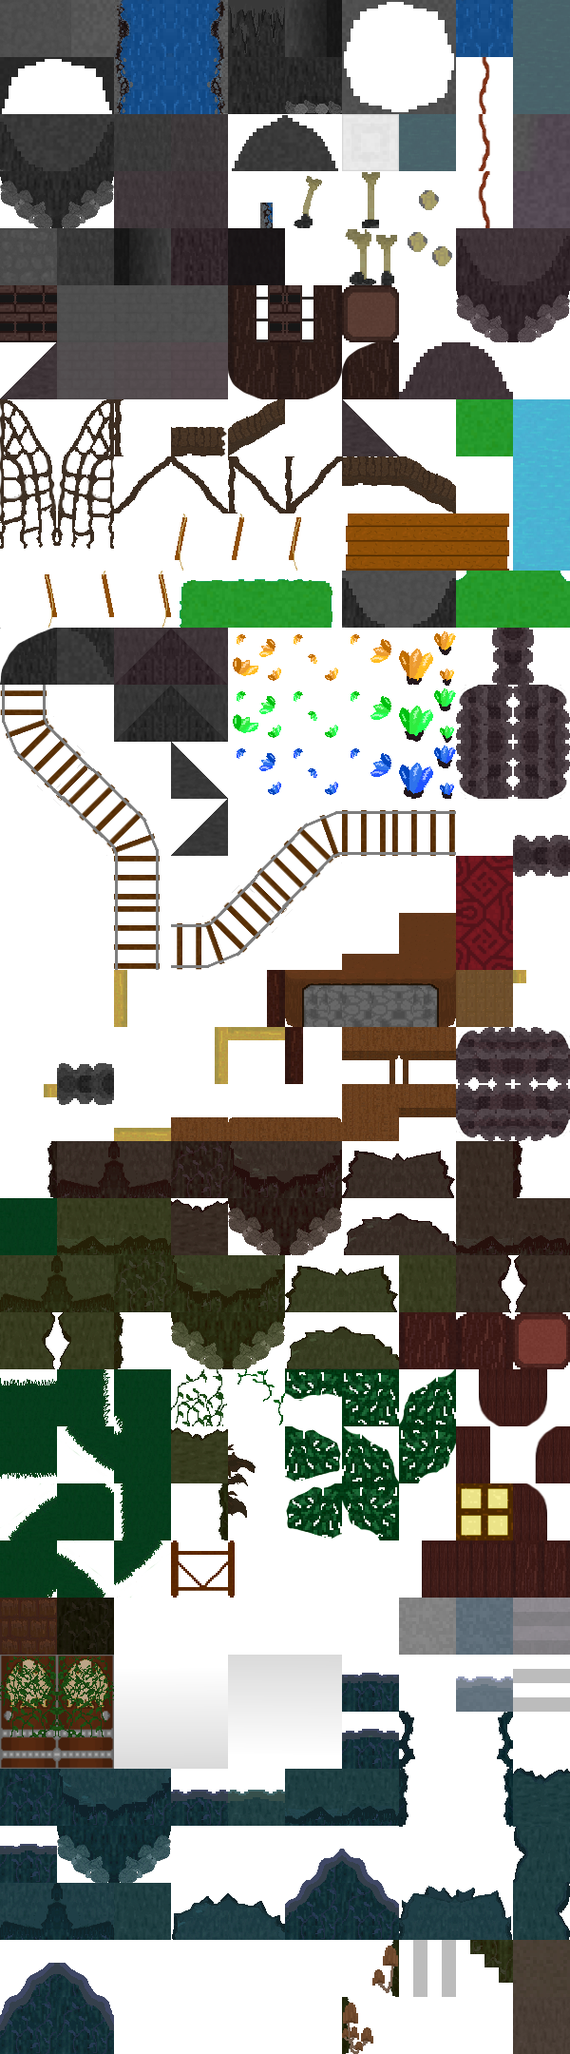
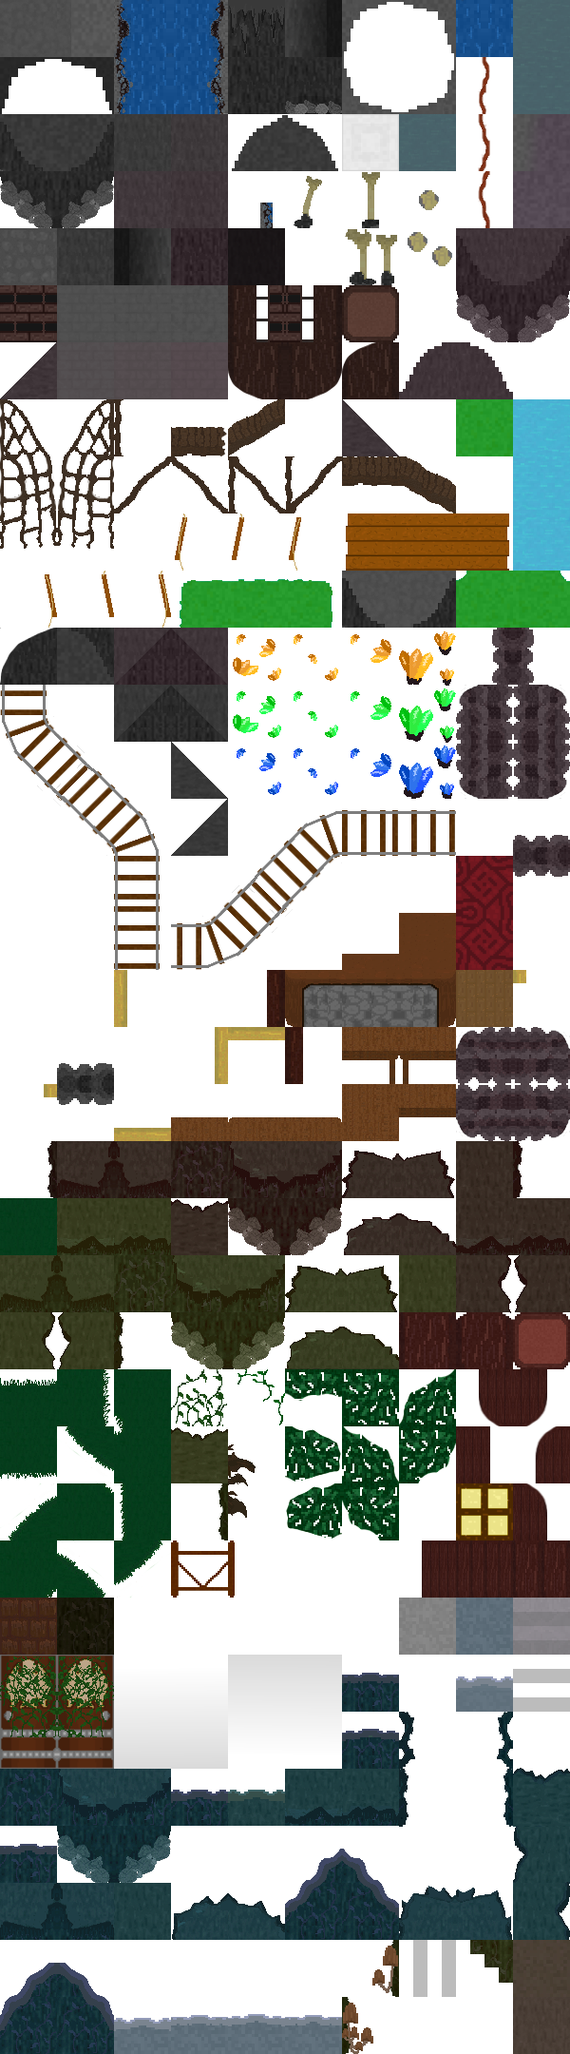
Frog Queen base updates + added the humidifiers!
Added the humidifiers for the frog queen base and updated the layout slightly.

Changed region(s): [[0.18, 0.9616, 0.6, 1.0]]

diff --git a/gamedata/areadata.js b/gamedata/areadata.js
@@ -14439,6 +14439,12 @@ crop: {
 				animateTime: 180,
 			},
 
+			{
+			// shoreline
+			tiles: [353, 354, 355, 356],
+			animateTime: 180,
+		},
+
 
 			{
 			tiles: [326, 341],
@@ -14463,17 +14469,18 @@ crop: {
 
 
 
+
 		],
 
 			layers: [
-				[209,209,209,209,209,209,209,350,350,204,209,209,209,209,209,209,209,209,209,209,209,209,209,209,209,209,209,209,209,209,209,209,209,209,209,209,209,209,209,204,204,204,204,204,204,204,204,204,205,209,209,209,209,209,209,209,209,209,
-209,209,209,209,209,204,204,350,350,204,204,209,209,209,209,209,209,209,209,209,209,209,209,209,209,209,209,204,204,204,204,209,209,209,209,209,209,209,204,204,204,204,204,204,204,204,204,204,204,204,205,209,209,209,209,209,209,209,
-209,209,228,228,209,209,204,350,350,204,204,204,209,209,209,209,209,209,209,209,209,209,209,209,209,209,204,204,204,204,204,204,219,219,219,220,209,204,204,204,228,228,228,228,228,228,228,204,213,204,204,204,203,209,209,209,209,209,
-209,209,209,228,209,204,204,350,350,204,204,204,204,204,209,209,209,209,209,209,209,209,209,209,209,204,204,204,204,204,204,204,204,204,204,204,204,204,228,228,228,228,228,228,228,228,223,223,223,204,204,204,204,204,204,204,209,209,
-209,209,209,228,204,204,204,350,350,350,204,204,204,228,209,209,209,209,209,209,209,209,209,209,204,204,204,204,204,204,204,204,204,204,204,204,222,228,228,228,228,228,228,228,223,223,223,223,223,223,228,204,204,204,204,203,209,209,
-209,209,209,228,228,204,350,350,350,350,350,204,228,228,209,209,209,209,209,209,209,209,209,209,204,204,204,350,350,350,350,350,204,204,222,228,223,224,213,228,228,228,228,228,223,223,228,223,223,228,228,228,228,204,204,204,204,209,
-209,209,209,228,228,350,350,350,350,350,350,223,204,209,209,209,209,209,209,209,209,209,209,209,204,204,350,350,350,350,350,350,350,204,223,223,223,223,223,224,228,228,228,228,223,228,225,223,223,223,223,223,223,222,204,204,203,209,
-209,209,209,206,228,350,350,350,350,350,350,223,209,209,209,209,209,209,209,209,209,209,209,209,204,204,350,350,350,350,350,350,350,350,350,224,228,223,223,223,223,223,223,223,223,228,223,223,223,223,223,223,223,223,223,204,204,204,
+				[209,209,209,209,209,209,209,204,204,204,209,209,209,209,209,209,209,209,209,209,209,209,209,209,209,209,209,209,209,209,209,209,209,209,209,209,209,209,209,204,204,204,204,204,204,204,204,204,205,209,209,209,209,209,209,209,209,209,
+209,209,209,209,209,204,204,204,204,204,204,209,209,209,209,209,209,209,209,209,209,209,209,209,209,209,209,204,204,204,204,209,209,209,209,209,209,209,204,204,204,204,204,204,204,204,204,204,204,204,205,209,209,209,209,209,209,209,
+209,209,228,228,209,209,204,204,204,204,204,204,209,209,209,209,209,209,209,209,209,209,209,209,209,209,204,204,204,204,204,204,219,219,219,220,209,204,204,204,228,228,228,228,228,228,228,204,213,204,204,204,203,209,209,209,209,209,
+209,209,209,228,209,204,228,204,204,204,228,204,204,204,209,209,209,209,209,209,209,209,209,209,209,204,204,204,204,204,204,204,204,204,204,204,204,204,228,228,228,228,228,228,228,228,223,223,223,204,204,204,204,204,204,204,209,209,
+209,209,209,204,204,228,204,223,223,223,204,228,204,204,209,209,209,209,209,209,209,209,209,209,204,204,204,204,204,204,204,204,204,204,204,204,222,228,228,228,228,228,228,228,223,223,223,223,223,223,228,204,204,204,204,203,209,209,
+209,209,209,228,228,204,223,223,223,223,223,204,228,204,209,209,209,209,209,209,209,209,209,209,204,204,204,350,350,350,350,350,204,204,222,228,223,224,213,228,228,228,228,228,223,223,228,223,223,228,228,228,228,204,204,204,204,209,
+209,209,209,228,228,223,350,350,350,350,350,223,204,209,209,209,209,209,209,209,209,209,209,209,204,204,350,350,350,350,350,350,350,204,223,223,223,223,223,224,228,228,228,228,223,228,225,223,223,223,223,223,223,222,204,204,203,209,
+209,209,209,206,228,223,350,350,350,350,350,223,209,209,209,209,209,209,209,209,209,209,209,209,204,204,350,350,350,350,350,350,350,350,350,224,228,223,223,223,223,223,223,223,223,228,223,223,223,223,223,223,223,223,223,204,204,204,
 209,209,209,204,228,350,350,350,350,350,350,209,209,209,209,209,209,209,209,209,209,209,209,209,209,204,350,350,350,350,350,350,350,350,350,223,223,224,228,223,223,223,223,223,228,225,223,223,0,228,228,228,223,223,224,204,204,203,
 209,209,202,204,228,350,350,350,350,350,350,209,204,204,204,209,209,209,209,209,209,209,209,209,209,209,209,350,350,350,350,350,350,350,350,350,223,223,223,222,228,228,228,228,221,223,223,223,223,0,0,223,223,223,223,223,204,204,
 209,209,204,228,228,350,350,350,350,350,228,204,209,204,204,204,209,209,209,209,209,209,209,209,209,209,209,209,350,350,350,350,350,350,350,350,350,350,223,223,223,223,223,223,223,223,360,360,360,223,223,223,360,360,223,223,204,204,
@@ -14489,18 +14496,18 @@ crop: {
 223,350,350,350,350,350,350,350,350,350,350,350,350,350,350,350,223,223,223,223,223,213,212,228,228,228,223,223,223,350,350,350,350,350,350,350,350,350,228,228,228,228,228,228,228,228,360,360,360,360,360,360,228,228,228,228,223,223,
 350,350,350,350,350,350,350,350,350,350,350,350,350,350,350,350,350,350,350,350,350,223,223,223,223,223,223,350,350,350,350,350,350,350,350,350,350,228,228,228,228,228,228,228,228,228,228,360,360,360,360,360,228,228,228,228,228,228,
 350,350,350,350,350,350,350,350,350,350,350,350,350,350,350,350,350,350,350,350,350,350,350,350,223,350,350,350,350,350,350,350,350,350,350,350,350,228,228,228,228,228,228,228,228,228,228,360,360,360,360,360,228,228,223,228,228,228,
-350,350,350,350,350,350,350,350,350,350,350,350,350,350,350,350,350,350,350,350,350,350,350,350,350,350,350,350,350,350,350,350,350,350,350,350,228,228,209,209,209,209,209,209,209,209,209,223,360,360,360,360,228,228,228,223,223,228,
-350,350,350,350,350,350,350,350,350,350,350,350,350,350,350,350,350,350,350,350,350,350,350,350,350,350,350,350,350,350,350,350,350,350,350,228,209,209,209,209,209,209,209,209,209,209,209,209,360,360,360,223,205,209,228,228,223,223,
-350,209,209,209,209,350,350,350,350,350,350,350,350,350,350,350,350,350,350,350,350,350,350,350,350,350,350,350,350,350,350,350,350,209,209,209,209,209,209,209,209,209,209,209,209,209,209,209,360,360,360,223,204,288,209,228,228,228,
-209,209,209,209,209,209,350,350,350,350,350,350,350,350,350,350,350,350,350,350,350,350,350,350,350,350,350,350,350,350,350,350,209,209,209,209,209,209,209,209,209,209,209,209,209,209,209,209,360,360,360,360,204,204,209,209,228,228,
-209,209,209,209,209,209,209,209,209,350,350,350,350,350,350,350,350,350,350,350,350,350,350,350,350,350,350,350,209,209,209,209,209,209,209,209,209,209,209,209,209,209,209,209,209,209,209,209,360,360,360,360,204,204,0,209,209,228,
-209,209,209,209,209,209,209,209,209,209,209,209,209,209,350,350,350,350,350,350,350,350,350,350,350,350,228,209,209,209,209,209,209,209,209,209,209,209,209,209,209,209,209,209,209,209,209,209,204,360,360,360,360,204,204,204,209,209,
-209,209,209,209,209,209,209,209,209,209,209,209,209,209,209,228,228,228,350,350,350,350,350,350,350,228,209,209,209,209,209,209,209,209,209,209,209,209,209,209,209,209,209,209,209,209,209,209,204,360,360,360,360,360,204,204,209,209,
-209,209,209,209,209,209,209,209,209,209,209,209,209,209,209,209,228,228,228,350,350,350,350,350,350,228,204,204,204,209,209,209,209,209,209,204,204,204,209,209,209,209,209,209,209,209,209,209,204,360,360,360,360,360,204,204,209,209,
-209,209,209,209,209,209,209,209,209,209,209,209,209,209,209,209,209,228,228,228,350,350,350,350,228,228,204,204,204,204,204,204,204,204,204,204,204,204,204,209,209,209,209,209,209,209,209,209,360,360,360,360,360,360,360,209,209,209,
-209,209,209,209,209,209,209,209,209,209,209,209,209,209,209,209,209,228,228,228,350,350,350,350,228,228,228,204,204,204,204,204,204,204,204,204,204,204,204,204,209,209,209,209,209,209,209,209,209,360,360,360,360,360,209,209,209,209,
-209,209,209,209,209,209,209,209,209,209,209,209,209,209,209,209,209,209,228,228,350,350,350,350,228,228,228,228,228,228,204,204,204,204,228,228,228,228,228,204,209,209,209,209,209,209,209,209,209,209,360,360,360,209,209,209,209,209,
-209,209,209,209,209,209,209,209,209,209,209,209,209,209,209,209,209,206,228,228,223,350,350,223,228,228,228,228,228,228,228,228,228,228,228,228,228,228,228,205,209,209,209,209,209,209,209,209,209,209,209,209,209,209,209,209,209,209,
+350,350,350,350,350,350,350,350,350,350,350,350,350,350,350,350,350,350,350,350,350,350,350,350,350,350,350,350,350,350,350,350,350,350,350,350,228,228,209,209,209,209,209,209,228,228,228,360,350,360,360,360,228,228,228,223,223,228,
+350,350,350,350,350,350,350,350,350,350,350,350,350,350,350,350,350,350,350,350,350,350,350,350,350,350,350,350,350,350,350,350,350,350,350,228,209,209,209,209,209,209,209,209,228,228,228,360,350,360,360,223,205,209,228,228,223,223,
+350,209,209,209,209,350,350,350,350,350,350,350,350,350,350,350,350,350,350,350,350,350,350,350,350,350,350,350,350,350,350,350,350,209,209,209,209,209,209,209,209,209,209,209,209,228,228,360,350,360,360,223,204,288,209,228,228,228,
+209,209,209,209,209,209,350,350,350,350,350,350,350,350,350,350,350,350,350,350,350,350,350,350,350,350,350,350,350,350,350,350,209,209,209,209,209,209,209,209,209,209,209,209,209,228,228,360,350,360,360,360,204,204,209,209,228,228,
+209,209,209,209,209,209,209,209,209,350,350,350,350,350,350,350,350,350,350,350,350,350,350,350,350,350,350,350,209,209,209,209,209,209,209,209,209,209,209,209,209,209,209,209,209,228,228,360,350,350,360,360,204,204,0,209,209,228,
+209,209,209,209,209,209,209,209,209,209,209,209,209,209,350,350,350,350,350,350,350,350,350,350,350,350,228,209,209,209,209,209,209,209,209,209,209,209,209,209,209,209,209,209,209,228,228,228,360,350,360,360,360,204,204,204,209,209,
+209,209,209,209,209,209,209,209,209,209,209,209,209,209,209,228,228,228,350,350,350,350,350,350,350,228,209,209,209,209,209,209,209,209,209,209,209,209,209,209,209,209,209,209,209,228,228,228,360,350,360,360,360,360,204,204,209,209,
+209,209,209,209,209,209,209,209,209,209,209,209,209,209,209,209,228,228,228,350,350,350,350,350,350,228,204,204,204,209,209,209,209,209,209,204,204,204,209,209,209,209,209,209,209,228,228,228,360,360,360,360,360,360,204,204,209,209,
+209,209,209,209,209,209,209,209,209,209,209,209,209,209,209,209,209,228,228,228,350,350,350,350,228,228,204,204,204,204,204,204,204,204,204,204,204,204,204,209,209,209,209,209,209,209,228,228,228,360,360,360,360,360,228,209,209,209,
+209,209,209,209,209,209,209,209,209,209,209,209,209,209,209,209,209,228,228,228,350,350,350,350,228,228,228,204,204,204,204,204,204,204,204,204,204,204,204,204,209,209,209,209,209,209,228,228,228,228,360,360,360,228,228,209,209,209,
+209,209,209,209,209,209,209,209,209,209,209,209,209,209,209,209,209,209,228,228,350,350,350,350,228,228,228,228,228,228,204,204,204,204,228,228,228,228,228,204,209,209,209,209,209,209,209,228,228,228,228,228,228,228,228,209,209,209,
+209,209,209,209,209,209,209,209,209,209,209,209,209,209,209,209,209,206,228,228,223,350,350,223,228,228,228,228,228,228,228,228,228,228,228,228,228,228,228,205,209,209,209,209,209,209,209,209,209,228,228,228,228,228,209,209,209,209,
 209,209,209,209,209,209,209,209,209,209,209,209,209,209,209,209,206,204,228,228,223,350,350,223,223,228,228,228,228,228,228,228,228,228,228,228,228,228,228,204,204,205,209,209,209,209,209,209,209,209,209,209,209,209,209,209,209,209,
 209,209,209,209,209,209,209,209,209,209,209,209,209,209,209,209,204,204,228,228,223,289,289,223,223,223,228,228,228,228,228,228,228,228,228,228,228,228,228,204,204,204,205,209,209,209,209,209,209,209,209,209,209,209,209,209,209,209,
 209,209,209,209,209,209,209,209,209,209,209,209,209,209,209,206,204,204,228,228,223,289,289,289,223,223,223,228,228,228,228,228,223,223,223,223,223,228,228,204,204,204,204,204,205,209,209,209,209,209,209,209,209,209,209,209,209,209,
@@ -14571,6 +14578,7 @@ crop: {
 
 
 
+
 ],
 
 
@@ -14579,13 +14587,13 @@ crop: {
 
 
 
-	[0,0,0,0,0,0,220,0,201,0,220,0,0,0,0,0,0,0,0,0,0,0,0,0,0,0,0,0,220,220,0,0,0,0,0,0,0,0,206,0,0,0,0,0,0,0,0,0,0,219,0,0,0,0,0,0,0,0,
-0,0,0,0,0,229,0,0,201,0,0,205,0,0,0,0,0,0,0,0,0,0,0,0,0,0,0,0,0,0,0,203,0,0,0,0,0,206,0,0,236,254,254,254,254,254,254,254,237,0,0,0,0,0,0,0,0,0,
-0,0,209,209,209,202,0,0,201,0,0,0,203,0,0,0,0,0,0,0,0,0,0,0,0,0,202,0,0,0,0,210,205,0,0,0,202,0,236,254,0,0,0,0,0,0,213,213,225,0,0,0,0,219,219,0,0,0,
-0,0,0,209,206,0,0,0,201,0,0,0,0,230,0,0,0,0,0,0,0,0,0,0,0,206,0,0,0,0,0,210,0,0,0,0,236,254,0,0,0,0,0,0,0,225,223,223,223,226,237,0,0,0,0,230,0,0,
-0,0,209,229,254,227,0,0,0,215,0,0,226,230,0,0,0,0,0,0,0,0,0,0,229,0,0,0,0,47,0,210,0,0,226,237,0,0,0,0,0,0,0,0,231,223,236,237,0,232,0,254,237,0,0,0,0,0,
-0,0,0,229,0,231,216,0,0,0,215,236,228,230,0,0,0,0,0,0,0,0,0,0,229,0,0,216,0,0,0,215,0,0,0,0,0,0,0,0,0,0,0,0,225,236,0,221,0,224,212,213,212,254,237,0,230,0,
-0,0,0,229,0,231,0,0,48,0,0,232,228,0,0,0,0,0,0,0,0,0,0,0,229,210,216,48,38,0,0,0,215,0,0,232,237,223,0,0,213,213,213,225,223,47,0,0,0,0,0,245,0,0,231,0,0,0,
+	[0,0,0,0,0,0,220,0,0,0,220,0,0,0,0,0,0,0,0,0,0,0,0,0,0,0,0,0,220,220,0,0,0,0,0,0,0,0,206,0,0,0,0,0,0,0,0,0,0,219,0,0,0,0,0,0,0,0,
+0,0,0,0,0,229,0,0,0,0,0,205,0,0,0,0,0,0,0,0,0,0,0,0,0,0,0,0,0,0,0,203,0,0,0,0,0,206,0,0,236,254,254,254,254,254,254,254,237,0,0,0,0,0,0,0,0,0,
+0,0,209,209,209,202,236,254,254,254,227,0,203,0,0,0,0,0,0,0,0,0,0,0,0,0,202,0,0,0,0,210,205,0,0,0,202,0,236,254,0,0,0,0,0,0,213,213,225,0,0,0,0,219,219,0,0,0,
+0,0,0,209,206,236,0,212,213,213,0,227,0,230,0,0,0,0,0,0,0,0,0,0,0,206,0,0,0,0,0,210,0,0,0,0,236,254,0,0,0,0,0,0,0,225,223,223,223,226,237,0,0,0,0,230,0,0,
+0,0,209,229,236,0,225,0,0,0,222,0,237,230,0,0,0,0,0,0,0,0,0,0,229,0,0,0,0,47,0,210,0,0,226,237,0,0,0,0,0,0,0,0,231,223,236,237,0,232,0,254,237,0,0,0,0,0,
+0,0,0,229,0,231,0,0,0,0,0,232,0,230,0,0,0,0,0,0,0,0,0,0,229,0,0,216,0,0,0,215,0,0,0,0,0,0,0,0,0,0,0,0,225,236,0,221,0,224,212,213,212,254,237,0,230,0,
+0,0,0,229,0,231,235,0,48,0,234,232,228,0,0,0,0,0,0,0,0,0,0,0,229,210,216,48,38,0,0,0,215,0,0,232,237,223,0,0,213,213,213,225,223,47,0,0,0,0,0,245,0,0,231,0,0,0,
 0,0,0,0,0,231,0,38,0,0,0,232,0,207,218,0,0,0,0,0,0,0,0,0,229,210,210,0,0,0,0,0,0,0,234,0,212,254,237,223,223,223,223,223,236,0,0,0,236,254,254,237,0,0,232,237,0,230,
 0,0,0,0,0,231,0,0,0,0,264,0,0,205,0,208,0,0,0,0,0,0,0,0,0,214,210,0,0,0,0,0,0,0,0,0,0,0,213,254,254,254,254,254,0,0,0,264,222,0,0,0,0,0,0,231,0,0,
 0,0,0,0,0,231,47,37,0,0,232,203,229,0,205,0,208,0,0,0,0,0,0,0,0,0,0,0,0,0,0,0,0,48,0,234,0,0,0,0,213,212,213,213,0,0,0,264,0,224,213,225,0,245,0,232,237,0,
@@ -14601,20 +14609,20 @@ crop: {
 0,235,0,0,0,0,0,0,0,0,0,0,0,234,0,0,0,245,0,0,226,227,236,254,237,236,254,0,0,221,235,0,0,0,0,0,0,0,226,254,254,254,348,348,254,237,0,0,0,0,0,0,201,0,232,237,0,0,
 0,0,0,0,38,0,0,0,0,0,0,0,0,0,0,234,0,0,0,0,224,0,0,0,0,36,213,221,0,235,0,0,0,0,0,0,0,236,0,0,0,0,0,0,0,0,237,0,0,0,0,226,0,0,222,0,254,254,
 235,0,0,0,0,0,0,0,0,0,0,0,0,0,0,0,0,0,0,0,234,245,0,224,213,225,0,235,0,0,0,0,0,0,0,0,236,0,0,0,0,0,0,0,0,0,0,237,0,0,0,232,0,0,223,222,213,0,
-0,48,0,0,0,0,0,0,0,0,0,0,0,0,0,0,0,0,0,0,0,0,0,234,0,235,0,0,0,0,0,0,0,0,0,0,232,0,207,214,214,214,214,214,214,214,218,231,0,0,0,232,0,0,237,223,223,222,
-0,0,0,0,0,0,0,47,0,0,0,0,0,0,0,36,0,0,0,0,0,0,0,0,0,0,0,0,0,0,38,0,0,0,0,236,217,214,0,0,0,0,0,0,0,0,0,231,233,0,0,224,207,218,0,237,223,223,
-0,217,214,214,208,0,0,0,0,0,0,0,0,0,0,0,0,0,38,48,0,0,0,0,0,0,0,0,0,0,48,0,0,207,214,214,0,0,0,0,0,0,0,0,0,0,0,0,233,0,0,0,0,0,218,0,254,227,
-214,0,0,0,0,218,0,0,0,0,37,0,0,0,0,0,0,0,0,0,0,0,0,0,0,0,0,0,0,0,0,0,217,0,0,0,0,0,0,0,0,0,0,0,0,0,0,0,229,0,0,0,0,205,0,208,0,0,
-0,0,0,0,0,0,214,214,208,0,0,0,0,0,0,0,0,0,0,0,0,0,36,0,0,0,0,0,217,214,214,214,0,0,0,0,0,0,0,0,0,0,0,0,0,0,0,0,229,0,0,234,0,0,0,0,218,0,
-0,0,0,0,0,0,0,0,0,214,214,214,214,218,0,0,0,0,0,0,0,0,0,0,0,0,236,254,0,0,0,0,0,0,0,0,0,0,0,0,0,0,0,0,0,0,0,0,206,0,38,0,0,0,205,0,0,214,
-0,0,0,0,0,0,0,0,0,0,0,0,0,0,254,254,254,237,0,0,0,0,0,0,0,236,207,0,0,0,0,0,0,0,0,0,0,0,0,0,0,0,0,0,0,0,0,0,0,0,0,48,215,0,0,230,0,0,
-0,0,0,0,0,0,0,0,0,0,0,0,0,0,0,218,0,0,254,237,0,0,0,0,0,0,205,220,220,0,0,0,0,0,0,219,219,220,0,0,0,0,0,0,0,0,0,0,0,0,0,0,0,215,0,230,0,0,
-0,0,0,0,0,0,0,0,0,0,0,0,0,0,0,0,218,0,0,231,0,0,0,0,236,0,0,0,0,203,219,219,220,220,202,0,0,0,205,0,0,0,0,0,0,0,0,0,0,0,0,0,0,0,0,230,0,0,
-0,0,0,0,0,0,0,0,0,0,0,0,0,0,0,0,0,208,0,0,227,0,0,226,0,0,0,0,0,0,0,0,0,0,0,0,0,0,0,0,0,0,0,0,0,0,0,0,216,0,0,0,0,0,215,0,0,0,
-0,0,0,0,0,0,0,0,0,0,0,0,0,0,0,0,0,229,0,0,231,0,0,232,0,0,215,0,0,0,0,0,0,0,0,0,0,0,0,230,0,0,0,0,0,0,0,0,0,218,0,0,0,217,0,0,0,0,
-0,0,0,0,0,0,0,0,0,0,0,0,0,0,0,0,0,229,0,0,231,0,0,232,0,0,0,0,0,215,0,0,0,0,216,0,0,0,215,230,0,0,0,0,0,0,0,0,0,0,214,214,214,0,0,0,0,0,
-0,0,0,0,0,0,0,0,0,0,0,0,0,0,0,0,0,0,0,0,231,0,201,224,0,0,0,0,0,0,0,0,0,0,0,0,0,0,0,0,0,0,0,0,0,0,0,0,0,0,0,0,0,0,0,0,0,0,
-0,0,0,0,0,0,0,0,0,0,0,0,0,0,0,0,0,0,0,0,231,299,299,327,224,0,0,0,0,0,0,0,0,0,0,0,0,0,0,0,0,0,0,0,0,0,0,0,0,0,0,0,0,0,0,0,0,0,
+0,48,0,0,0,0,0,0,0,0,0,0,0,0,0,0,0,0,0,0,0,0,0,234,0,235,0,0,0,0,0,0,0,0,0,0,232,0,207,214,214,214,214,208,0,0,0,231,0,0,0,232,0,0,237,223,223,222,
+0,0,0,0,0,0,0,47,0,0,0,0,0,0,0,36,0,0,0,0,0,0,0,0,0,0,0,0,0,0,38,0,0,0,0,236,217,214,0,0,0,0,0,0,218,0,0,231,0,0,0,224,207,218,0,237,223,223,
+0,217,214,214,208,0,0,0,0,0,0,0,0,0,0,0,0,0,38,48,0,0,0,0,0,0,0,0,0,0,48,0,0,207,214,214,0,0,0,0,0,0,0,0,229,0,0,231,0,0,0,0,0,0,218,0,254,227,
+214,0,0,0,0,218,0,0,0,0,37,0,0,0,0,0,0,0,0,0,0,0,0,0,0,0,0,0,0,0,0,0,217,0,0,0,0,0,0,0,0,0,0,0,0,218,0,231,0,0,0,0,0,205,0,208,0,0,
+0,0,0,0,0,0,214,214,208,0,0,0,0,0,0,0,0,0,0,0,0,0,36,0,0,0,0,0,217,214,214,214,0,0,0,0,0,0,0,0,0,0,0,0,0,229,0,231,0,0,0,234,0,0,0,0,218,0,
+0,0,0,0,0,0,0,0,0,214,214,214,214,218,0,0,0,0,0,0,0,0,0,0,0,0,236,254,0,0,0,0,0,0,0,0,0,0,0,0,0,0,0,0,0,229,0,231,0,0,38,0,0,0,205,0,0,214,
+0,0,0,0,0,0,0,0,0,0,0,0,0,0,254,254,254,237,0,0,0,0,0,0,0,236,207,0,0,0,0,0,0,0,0,0,0,0,0,0,0,0,0,0,0,229,0,0,227,0,0,48,215,0,0,230,0,0,
+0,0,0,0,0,0,0,0,0,0,0,0,0,0,0,218,0,0,254,237,0,0,0,0,0,0,205,220,220,0,0,0,0,0,0,219,219,220,0,0,0,0,0,0,0,229,0,0,231,0,0,0,0,215,0,230,0,0,
+0,0,0,0,0,0,0,0,0,0,0,0,0,0,0,0,218,0,0,231,0,0,0,0,236,0,0,0,0,203,219,219,220,220,202,0,0,0,205,0,0,0,0,0,0,229,0,0,231,0,0,0,0,0,236,230,0,0,
+0,0,0,0,0,0,0,0,0,0,0,0,0,0,0,0,0,208,0,0,227,0,0,226,0,0,0,0,0,0,0,0,0,0,0,0,0,0,0,0,0,0,0,0,0,0,218,0,0,237,0,0,0,226,0,230,0,0,
+0,0,0,0,0,0,0,0,0,0,0,0,0,0,0,0,0,229,0,0,231,0,0,232,0,0,215,0,0,0,0,0,0,0,0,0,0,0,0,230,0,0,0,0,0,0,229,0,0,0,254,254,254,0,0,230,0,0,
+0,0,0,0,0,0,0,0,0,0,0,0,0,0,0,0,0,229,0,0,231,0,0,232,0,0,0,0,0,215,0,0,0,0,216,0,0,0,215,230,0,0,0,0,0,0,0,214,218,0,0,0,0,0,207,0,0,0,
+0,0,0,0,0,0,0,0,0,0,0,0,0,0,0,0,0,0,0,0,231,0,0,224,0,0,0,0,0,0,0,0,0,0,0,0,0,0,0,0,0,0,0,0,0,0,0,0,0,214,214,214,214,214,0,0,0,0,
+0,0,0,0,0,0,0,0,0,0,0,0,0,0,0,0,0,0,0,0,231,353,353,327,224,0,0,0,0,0,0,0,0,0,0,0,0,0,0,0,0,0,0,0,0,0,0,0,0,0,0,0,0,0,0,0,0,0,
 0,0,0,0,0,0,0,0,0,0,0,0,0,0,0,0,0,0,0,0,231,294,294,337,327,224,0,0,0,0,0,0,0,212,212,213,0,0,0,0,0,0,0,220,0,0,0,0,0,0,0,0,0,0,0,0,0,0,
 0,0,0,0,0,0,0,0,0,0,0,0,0,0,0,0,0,0,0,0,231,304,304,304,337,327,224,213,212,212,213,213,225,0,0,0,222,0,0,0,0,0,0,0,0,0,0,0,0,0,0,0,0,0,0,0,0,0,
 0,0,0,0,0,0,0,0,0,0,0,0,0,0,0,0,0,216,0,0,231,295,295,295,295,337,327,0,0,0,0,0,326,314,314,314,327,222,0,215,0,0,0,0,0,0,0,0,0,0,0,0,0,0,0,0,0,0,
@@ -14688,14 +14696,16 @@ crop: {
 
 
 
+
+
 	],
 
 	[0,0,0,0,0,0,0,210,0,201,0,0,0,0,0,0,0,0,0,0,0,0,0,0,0,0,0,0,0,0,219,0,0,0,0,0,0,0,0,210,0,0,0,0,0,0,0,0,0,0,0,0,0,0,0,0,0,0,
 0,0,0,0,0,0,210,210,0,201,201,0,0,0,0,0,0,0,0,0,0,0,0,0,0,0,0,206,210,0,0,0,0,0,0,0,0,0,210,210,0,0,0,0,0,0,0,0,0,0,0,0,0,0,0,0,0,0,
-0,0,0,0,0,0,210,210,0,201,201,0,0,0,0,0,0,0,0,0,0,0,0,0,0,0,0,210,210,0,0,201,0,0,0,0,0,210,210,0,0,0,0,0,0,0,0,0,347,357,0,201,0,0,0,0,0,0,
-0,0,0,0,0,0,210,210,0,201,201,0,0,0,0,0,0,0,0,0,0,0,0,0,0,0,210,210,210,0,0,201,201,0,0,0,0,0,0,0,0,0,0,0,0,347,233,244,0,233,0,201,0,0,201,0,0,0,
-0,0,0,0,0,0,210,210,0,201,201,0,0,0,0,0,0,0,0,0,0,0,0,0,0,210,210,210,210,0,0,201,201,0,0,264,0,0,0,0,0,0,0,0,37,0,233,0,0,233,0,0,37,0,201,0,0,0,
-0,0,0,0,0,0,0,0,0,0,0,0,0,0,0,0,0,0,0,0,0,0,0,0,0,210,210,210,0,0,0,201,201,264,0,264,347,0,0,0,0,0,0,0,0,233,0,0,357,233,0,0,0,0,201,201,0,0,
+0,0,0,0,0,0,210,0,0,0,201,0,0,0,0,0,0,0,0,0,0,0,0,0,0,0,0,210,210,0,0,201,0,0,0,0,0,210,210,0,0,0,0,0,0,0,0,0,347,357,0,201,0,0,0,0,0,0,
+0,0,0,0,0,0,0,0,0,0,0,0,0,0,0,0,0,0,0,0,0,0,0,0,0,0,210,210,210,0,0,201,201,0,0,0,0,0,0,0,0,0,0,0,0,347,233,244,0,233,0,201,0,0,201,0,0,0,
+0,0,0,0,0,0,0,357,0,264,0,0,0,0,0,0,0,0,0,0,0,0,0,0,0,210,210,210,210,0,0,201,201,0,0,264,0,0,0,0,0,0,0,0,37,0,233,0,0,233,0,0,37,0,201,0,0,0,
+0,0,0,0,0,0,0,233,0,347,264,0,0,0,0,0,0,0,0,0,0,0,0,0,0,210,210,210,0,0,0,201,201,264,0,264,347,0,0,0,0,0,0,0,0,233,0,0,357,233,0,0,0,0,201,201,0,0,
 0,0,0,0,0,0,0,0,0,0,264,0,217,0,0,0,0,0,0,0,0,0,0,0,0,0,0,0,0,0,0,0,201,264,264,0,264,244,347,0,0,0,0,0,357,233,0,244,347,0,0,0,244,0,0,201,0,0,
 0,0,0,0,210,0,0,0,0,0,264,207,0,0,0,0,0,0,0,0,0,0,0,0,0,0,0,0,0,0,0,0,0,0,264,0,0,0,264,0,0,244,0,0,233,0,244,244,0,0,0,0,244,244,0,201,201,0,
 0,0,0,210,210,0,0,0,0,0,226,0,201,0,0,0,0,0,0,0,0,0,0,0,0,0,208,0,0,0,0,0,0,0,264,264,347,0,0,36,0,0,0,0,0,0,233,245,0,0,0,0,233,244,0,0,201,0,
@@ -14713,20 +14723,20 @@ crop: {
 347,233,0,0,0,0,0,0,0,0,0,0,0,0,0,264,0,244,244,244,0,0,0,0,0,47,0,0,0,0,0,0,0,0,0,0,0,0,0,0,0,0,0,0,0,0,0,0,0,0,0,47,0,0,0,0,0,0,
 0,0,0,0,0,0,0,0,0,0,0,0,0,0,0,0,0,0,0,0,0,357,244,0,0,0,357,0,0,0,0,0,0,0,0,0,0,0,0,0,0,0,0,0,0,0,47,0,0,0,0,0,0,0,0,0,0,0,
 0,0,0,0,0,0,0,0,0,0,0,0,0,0,0,0,0,0,0,0,0,0,0,0,0,0,0,0,0,0,0,0,0,0,0,0,0,0,0,0,0,0,0,0,0,0,0,0,0,0,0,0,0,0,0,357,0,0,
-0,0,0,0,0,0,0,0,0,0,0,0,0,0,0,0,0,0,0,0,0,0,0,0,0,0,0,0,0,0,0,0,0,0,0,0,0,0,0,0,0,0,0,0,0,0,0,218,357,0,347,0,0,0,0,0,0,0,
-0,0,0,0,0,0,0,0,0,0,0,0,0,0,0,0,0,0,0,0,0,0,0,0,0,0,0,0,0,0,0,0,0,0,0,0,0,0,0,0,0,0,0,0,0,0,0,0,218,0,264,201,0,0,0,0,0,0,
+0,0,0,0,0,0,0,0,0,0,0,0,0,0,0,0,0,0,0,0,0,0,0,0,0,0,0,0,0,0,0,0,0,0,0,0,0,0,0,0,0,0,0,0,0,0,0,0,0,0,347,0,0,0,0,0,0,0,
+0,0,0,0,0,0,0,0,0,0,0,0,0,0,0,0,0,0,0,0,0,0,0,0,0,0,0,0,0,0,0,0,0,0,0,0,0,0,0,0,0,0,0,0,0,0,0,0,0,0,264,201,0,0,0,0,0,0,
 0,0,0,0,0,0,0,0,0,0,0,0,0,0,0,0,0,0,0,0,0,0,0,0,0,0,0,0,0,0,0,0,0,0,0,0,0,0,0,0,0,0,0,0,0,0,0,0,0,0,264,201,201,0,0,0,0,0,
 0,0,0,0,0,0,0,0,0,0,0,0,0,0,0,0,0,0,0,0,0,0,0,0,0,0,0,0,0,0,0,0,0,0,0,0,0,0,0,0,0,0,0,0,0,0,0,0,0,0,0,201,201,201,0,0,0,0,
-0,0,0,0,0,0,0,0,0,0,0,0,0,0,0,0,0,0,0,0,0,0,0,0,0,0,0,207,0,0,0,0,0,0,0,0,0,0,0,0,0,0,0,0,0,0,0,0,0,210,0,201,201,201,0,0,0,0,
-0,0,0,0,0,0,0,0,0,0,0,0,0,0,208,0,0,0,0,0,0,0,0,0,0,0,0,0,0,0,0,0,0,0,0,0,0,0,0,0,0,0,0,0,0,0,0,0,0,210,0,0,201,201,0,0,0,0,
-0,0,0,0,0,0,0,0,0,0,0,0,0,0,0,0,0,37,0,0,0,0,0,0,0,201,0,0,0,0,0,0,0,0,0,0,0,0,0,0,0,0,0,0,0,0,0,0,0,210,0,0,0,201,0,0,0,0,
-0,0,0,0,0,0,0,0,0,0,0,0,0,0,0,0,0,0,0,0,0,0,0,0,0,201,0,0,201,0,0,0,0,0,0,210,0,0,0,0,0,0,0,0,0,0,0,0,0,210,0,0,0,0,0,0,0,0,
-0,0,0,0,0,0,0,0,0,0,0,0,0,0,0,0,0,0,0,0,0,0,0,0,0,201,0,0,201,0,0,0,0,0,0,210,0,0,0,0,0,0,0,0,0,0,0,0,208,0,0,0,0,0,207,0,0,0,
+0,0,0,0,0,0,0,0,0,0,0,0,0,0,0,0,0,0,0,0,0,0,0,0,0,0,0,207,0,0,0,0,0,0,0,0,0,0,0,0,0,0,0,0,0,0,0,0,0,0,0,201,201,201,0,0,0,0,
+0,0,0,0,0,0,0,0,0,0,0,0,0,0,208,0,0,0,0,0,0,0,0,0,0,0,0,0,0,0,0,0,0,0,0,0,0,0,0,0,0,0,0,0,0,0,0,0,0,0,0,0,201,201,0,0,0,0,
+0,0,0,0,0,0,0,0,0,0,0,0,0,0,0,0,0,37,0,0,0,0,0,0,0,201,0,0,0,0,0,0,0,0,0,0,0,0,0,0,0,0,0,0,0,0,0,0,0,0,0,0,0,201,0,0,0,0,
+0,0,0,0,0,0,0,0,0,0,0,0,0,0,0,0,0,0,0,0,0,0,0,0,0,201,0,0,201,0,0,0,0,0,0,210,0,0,0,0,0,0,0,0,0,0,0,0,0,0,0,0,0,0,0,0,0,0,
+0,0,0,0,0,0,0,0,0,0,0,0,0,0,0,0,0,0,0,0,0,0,0,0,0,201,0,0,201,0,0,0,0,0,0,210,0,0,0,0,0,0,0,0,0,0,0,0,0,0,0,0,0,0,0,0,0,0,
 0,0,0,0,0,0,0,0,0,0,0,0,0,0,0,0,0,0,0,0,0,0,0,0,47,0,0,0,201,0,0,0,0,0,0,210,0,0,0,0,0,0,0,0,0,0,0,0,0,0,0,0,0,0,0,0,0,0,
 0,0,0,0,0,0,0,0,0,0,0,0,0,0,0,0,0,0,0,36,0,0,0,0,0,0,0,0,0,0,0,0,0,0,0,0,0,0,0,0,0,0,0,0,0,0,0,0,0,0,0,0,0,0,0,0,0,0,
-0,0,0,0,0,0,0,0,0,0,0,0,0,0,0,0,0,0,210,0,0,233,0,0,0,0,0,0,0,0,0,0,0,0,0,0,0,0,0,0,0,0,0,0,0,0,0,0,0,0,0,0,0,0,0,0,0,0,
-0,0,0,0,0,0,0,0,0,0,0,0,0,0,0,0,0,0,210,0,0,233,201,0,0,0,0,0,0,0,0,0,0,0,0,0,0,0,0,0,0,0,0,0,0,0,0,0,0,0,0,0,0,0,0,0,0,0,
-0,0,0,0,0,0,0,0,0,0,0,0,0,0,0,0,0,0,210,0,0,233,0,0,0,0,0,0,0,0,0,0,0,0,0,0,0,0,0,0,0,0,0,0,0,0,0,0,0,0,0,0,0,0,0,0,0,0,
+0,0,0,0,0,0,0,0,0,0,0,0,0,0,0,0,0,0,210,0,0,233,264,0,0,0,0,0,0,0,0,0,0,0,0,0,0,0,0,0,0,0,0,0,0,0,0,0,0,0,0,0,0,0,0,0,0,0,
+0,0,0,0,0,0,0,0,0,0,0,0,0,0,0,0,0,0,210,0,0,233,264,0,0,0,0,0,0,0,0,0,0,0,0,0,0,0,0,0,0,0,0,0,0,0,0,0,0,0,0,0,0,0,0,0,0,0,
+0,0,0,0,0,0,0,0,0,0,0,0,0,0,0,0,0,0,210,0,0,233,319,0,0,0,0,0,0,0,0,0,0,0,0,0,0,0,0,0,0,0,0,0,0,0,0,0,0,0,0,0,0,0,0,0,0,0,
 0,0,0,0,0,0,0,0,0,0,0,0,0,0,0,0,210,0,210,0,0,233,0,322,0,0,0,0,0,0,0,0,0,0,0,0,0,0,0,0,0,0,0,0,0,0,0,0,0,0,0,0,0,0,0,0,0,0,
 0,0,0,0,0,0,0,0,0,0,0,0,0,0,0,0,210,0,0,0,0,233,0,0,322,0,0,0,0,0,0,0,0,0,0,0,0,0,0,0,0,0,0,0,0,0,0,0,0,0,0,0,0,0,0,0,0,0,
 0,0,0,0,0,0,0,0,0,0,0,0,0,0,0,0,210,0,0,0,0,233,0,0,0,0,0,0,0,0,0,0,0,308,0,0,308,0,0,0,0,0,0,0,0,0,0,0,0,0,0,0,0,0,0,0,0,0,
@@ -14799,6 +14809,8 @@ crop: {
 
 
 
+
+
 	],
 
 ],
@@ -14822,6 +14834,7 @@ crop: {
 			frogQueenThrone: {normal: "assets/objects/frogQueenThrone.png"},
 			barrel: {normal: "assets/objects/barrel.png"},
 			corpseFlower: {normal: "assets/objects/corpseFlower.png"},
+			teapotHumidifier: {normal: "assets/objects/teapotHumidifier.png"},
 			frogSpawn: {normal: "assets/items/fish/33.png"},
 			frogQueen: {normal: "assets/enemies/frogQueen.png"},
 
@@ -14849,8 +14862,8 @@ crop: {
 		},
 
 		{
-			x: [2439, 2352, 2990, 3064, 3026, 3204, 3334, 3344, 3307, 3351, 3096, 2381, 2369, 2408, 1997, 1898, 1718, 1535, 1277, 792, 155, 145, 320],
-			y: [-1499, -1749, -1836, -1497, -1516, -1673, -771, -564, -583, -601, -659, -800, -761, -761, -1064, -1148, -891, -1148, -839, -1064, -1183, -1144, -1441],
+			x: [2439, 2352, 2990, 3064, 3026, 3204, 3334, 3344, 3307, 3351, 3096, 2381, 2369, 2408, 1997, 1898, 1718, 1535, 1277, 792, 155, 145, 320, 614, 2889, 2793, 3076, 2851],
+			y: [-1499, -1749, -1836, -1497, -1516, -1673, -771, -564, -583, -601, -659, -800, -761, -761, -1064, -1148, -891, -1148, -839, -1064, -1183, -1144, -1441, -1855, -231, -450, -76, -248],
 			image: "frogSpawn",
 			name: "frogSpawn",
 		},
@@ -14887,16 +14900,16 @@ crop: {
 		},
 
 		{
-			x: [1899, 1949, 1416, 1131, 1085, 736, 203, 25, 2534, 2583, 3038, 3086, 2628, 2834, 3383, 3432, 3216, 3400, 3446, 2285],
-			y: [-1230, -1196, -1050, -1006, -963, -1127, -1256, -919, -813, -845, -1602, -1579, -1531, -1792, -1389, -1351, -703, -558, -512, -1571],
+			x: [1899, 1949, 1416, 1131, 1085, 736, 203, 25, 2534, 2583, 3038, 3086, 2628, 2834, 3383, 3432, 3216, 3400, 3446, 2285, 2797, 433],
+			y: [-1230, -1196, -1050, -1006, -963, -1127, -1256, -919, -813, -845, -1602, -1579, -1531, -1792, -1389, -1351, -703, -558, -512, -1571, -200, -1877],
 			z: [2],
 			image: "rock1",
 			name: "rock1",
 		},
 
 		{
-			x: [2145, 2078, 2055, 2123, 2182, 2150, 2125, 2239, 2219, 2269, 2280, 2321, 2359, 2380, 2634, 2668, 2690, 2678, 2659, 2691, 2811, 2787, 2772, 2737, 2716, 2820, 2844, 2865, 2799, 2770, 2592, 2618, 2629, 2444, 2476, 2513, 2478, 2449, 2347, 2370, 2370, 2188, 2188, 2188, 2220, 2220, 2416, 2441, 2400, 2365, 2333, 2347, 2608, 2608, 2608, 2608, 2628, 2628, 2575, 2637, 2678, 2703, 2679, 2648, 2928, 2908, 2884, 2925, 2925, 2904, 2894, 2918, 3102, 3102, 2956, 2978, 3039, 3056, 3074, 3330, 3330, 3243, 3206, 3206, 3238, 3354, 3324, 3324, 3349, 3330, 3476, 3450, 3431, 3456, 3480, 3279, 3255, 3269, 3298, 3121, 3151, 3178, 3171, 3189, 3219, 2852, 2852, 2852, 2820, 2820, 2689, 2709, 2739, 2705, 2676, 2570, 2612, 2594, 2625, 2606, 2500, 2476, 2446, 2466, 2503, 2453, 2246, 2267, 2287, 2002, 2002, 2002, 1971, 1971, 1914, 1942, 1966, 1927, 1899, 1832, 1832, 1832, 1801, 1801, 1690, 1664, 1630, 1662, 1593, 1593, 1593, 1617, 1617, 1764, 1461, 1482, 1497, 1459, 1262, 1288, 1312, 1322, 1302, 1230, 1230, 1385, 1407, 1426, 1441, 1411, 1146, 1173, 1173, 1147, 939, 912, 618, 632, 661, 672, 690, 696, 634, 634, 634, 596, 579, 276, 276, 276, 276, 242, 242, 328, 328, 328, 328, 292, 292, 142, 161, 184, 146, 122, 1749, 1497, 1037, 759, 297, 181, 27, 1395, 1923, 2444, 3088, 3036, 3371, 3451],
-			y: [-1723, -1786, -1765, -1700, -1631, -1614, -1646, -1602, -1586, -1606, -1574, -1561, -1490, -1469, -1474, -1493, -1528, -1471, -1589, -1607, -1688, -1669, -1649, -1729, -1703, -1730, -1743, -1764, -1799, -1772, -1656, -1671, -1703, -1659, -1659, -1659, -1678, -1678, -1692, -1672, -1700, -1837, -1807, -1776, -1836, -1800, -1948, -1966, -1934, -1829, -1829, -1802, -1896, -1875, -1853, -1817, -1850, -1875, -1886, -1977, -1977, -1977, -1959, -1959, -1943, -1923, -1902, -1910, -1610, -1590, -1555, -1570, -1572, -1539, -1495, -1483, -1824, -1807, -1802, -1590, -1557, -1120, -1098, -1073, -1089, -1122, -1098, -1078, -1096, -1121, -1249, -1226, -1208, -1184, -1212, -1234, -1211, -678, -658, -712, -697, -718, -850, -826, -811, -676, -707, -742, -742, -712, -885, -869, -848, -832, -861, -783, -822, -807, -802, -776, -869, -852, -823, -805, -834, -861, -789, -819, -793, -1178, -1139, -1106, -1164, -1122, -1361, -1339, -1315, -1315, -1334, -1282, -1258, -1218, -1237, -1267, -1319, -1299, -1275, -1269, -1184, -1160, -1127, -1142, -1179, -1137, -1081, -1060, -1031, -1046, -1002, -1022, -1043, -1020, -1005, -867, -838, -804, -782, -765, -794, -815, -949, -969, -1002, -980, -932, -953, -1195, -1180, -1180, -1155, -1130, -1112, -1401, -1375, -1342, -1339, -1374, -1322, -1297, -1265, -1240, -1255, -1296, -1745, -1716, -1679, -1652, -1680, -1720, -1063, -1085, -1114, -1112, -1084, -947, -976, -964, -1084, -1494, -1218, -977, -1021, -1211, -1549, -1751, -1562, -1431, -704],
+			x: [2145, 2078, 2055, 2123, 2182, 2150, 2125, 2239, 2219, 2269, 2280, 2321, 2359, 2380, 2634, 2668, 2690, 2678, 2659, 2691, 2811, 2787, 2772, 2737, 2716, 2820, 2844, 2865, 2799, 2770, 2592, 2618, 2629, 2444, 2476, 2513, 2478, 2449, 2347, 2370, 2370, 2188, 2188, 2188, 2220, 2220, 2416, 2441, 2400, 2365, 2333, 2347, 2608, 2608, 2608, 2608, 2628, 2628, 2575, 2637, 2678, 2703, 2679, 2648, 2928, 2908, 2884, 2925, 2925, 2904, 2894, 2918, 3102, 3102, 2956, 2978, 3039, 3056, 3074, 3330, 3330, 3243, 3206, 3206, 3238, 3354, 3324, 3324, 3349, 3330, 3476, 3450, 3431, 3456, 3480, 3279, 3255, 3269, 3298, 3121, 3151, 3178, 3171, 3189, 3219, 2852, 2852, 2852, 2820, 2820, 2689, 2709, 2739, 2705, 2676, 2570, 2612, 2594, 2625, 2606, 2500, 2476, 2446, 2466, 2503, 2453, 2246, 2267, 2287, 2002, 2002, 2002, 1971, 1971, 1914, 1942, 1966, 1927, 1899, 1832, 1832, 1832, 1801, 1801, 1690, 1664, 1630, 1662, 1593, 1593, 1593, 1617, 1617, 1764, 1461, 1482, 1497, 1459, 1262, 1288, 1312, 1322, 1302, 1230, 1230, 1385, 1407, 1426, 1441, 1411, 1146, 1173, 1173, 1147, 939, 912, 618, 632, 661, 672, 690, 696, 634, 634, 634, 596, 579, 276, 276, 276, 276, 242, 242, 328, 328, 328, 328, 292, 292, 142, 161, 184, 146, 122, 1749, 1497, 1037, 759, 297, 181, 27, 1395, 1923, 2444, 3088, 3036, 3371, 3451, 2912, 2887, 2871, 2900, 3287, 3266, 3236, 3270, 3292, 2955, 2988, 3021, 2986, 2950, 2806, 2874, 3132, 3162, 3201, 3174, 3144, 2853, 2853, 2853, 2824, 2740, 2706, 721, 494, 524, 561, 540, 512],
+			y: [-1723, -1786, -1765, -1700, -1631, -1614, -1646, -1602, -1586, -1606, -1574, -1561, -1490, -1469, -1474, -1493, -1528, -1471, -1589, -1607, -1688, -1669, -1649, -1729, -1703, -1730, -1743, -1764, -1799, -1772, -1656, -1671, -1703, -1659, -1659, -1659, -1678, -1678, -1692, -1672, -1700, -1837, -1807, -1776, -1836, -1800, -1948, -1966, -1934, -1829, -1829, -1802, -1896, -1875, -1853, -1817, -1850, -1875, -1886, -1977, -1977, -1977, -1959, -1959, -1943, -1923, -1902, -1910, -1610, -1590, -1555, -1570, -1572, -1539, -1495, -1483, -1824, -1807, -1802, -1590, -1557, -1120, -1098, -1073, -1089, -1122, -1098, -1078, -1096, -1121, -1249, -1226, -1208, -1184, -1212, -1234, -1211, -678, -658, -712, -697, -718, -850, -826, -811, -676, -707, -742, -742, -712, -885, -869, -848, -832, -861, -783, -822, -807, -802, -776, -869, -852, -823, -805, -834, -861, -789, -819, -793, -1178, -1139, -1106, -1164, -1122, -1361, -1339, -1315, -1315, -1334, -1282, -1258, -1218, -1237, -1267, -1319, -1299, -1275, -1269, -1184, -1160, -1127, -1142, -1179, -1137, -1081, -1060, -1031, -1046, -1002, -1022, -1043, -1020, -1005, -867, -838, -804, -782, -765, -794, -815, -949, -969, -1002, -980, -932, -953, -1195, -1180, -1180, -1155, -1130, -1112, -1401, -1375, -1342, -1339, -1374, -1322, -1297, -1265, -1240, -1255, -1296, -1745, -1716, -1679, -1652, -1680, -1720, -1063, -1085, -1114, -1112, -1084, -947, -976, -964, -1084, -1494, -1218, -977, -1021, -1211, -1549, -1751, -1562, -1431, -704, -319, -344, -313, -280, -217, -192, -171, -151, -173, -139, -113, -101, -80, -104, -274, -99, -58, -58, -58, -34, -34, -460, -482, -521, -498, -560, -683, -1754, -1840, -1840, -1840, -1868, -1868],
 			z: [2],
 			image: "shrub3",
 			name: "shrub3",
@@ -14910,16 +14923,16 @@ crop: {
 		},
 
 {
-		x: [2205, 2390, 2567, 2841, 2992, 3240, 3273, 2752, 2327, 3355, 3326, 3378, 3202, 2463, 2330, 1888, 1922, 1885, 1413, 918, 948, 95, 329, 329, 699, 2798],
-		y: [-1616, -1687, -1534, -1733, -1607, -1720, -1686, -1906, -1906, -1216, -842, -809, -777, -749, -840, -1096, -1062, -1295, -887, -1037, -1012, -1150, -1390, -1390, -1679, -1916],
+		x: [2205, 2390, 2567, 2841, 2992, 3240, 3273, 2752, 2327, 3355, 3326, 3378, 3202, 2463, 2330, 1888, 1922, 1885, 1413, 918, 948, 95, 329, 329, 699, 2798, 365, 387, 2853, 2879, 3031],
+		y: [-1616, -1687, -1534, -1733, -1607, -1720, -1686, -1906, -1906, -1216, -842, -809, -777, -749, -840, -1096, -1062, -1295, -887, -1037, -1012, -1150, -1390, -1390, -1679, -1916, -1819, -1841, -192, -162, -41],
 		z: [2],
 		image: "mushroomPurple",
 		name: "mushroomPurple",
 		},
 
 		{
-			x: [2085, 2127, 2158, 2511, 2680, 2767, 2683, 2564, 2269, 2845, 2890, 2977, 3015, 2966, 3301, 3386, 3247, 3217, 3278, 3450, 3146, 2234, 2269, 2698, 1802, 1845, 1954, 1621, 1257, 1296, 850, 640, 675, 609, 259, 226, 70, 296],
-			y: [-1740, -1765, -1656, -1503, -1557, -1712, -1853, -1677, -1752, -1973, -1942, -1769, -1734, -1560, -1568, -1309, -1182, -1151, -894, -798, -744, -711, -745, -792, -1407, -1367, -1115, -867, -1039, -1067, -1039, -1247, -1212, -1393, -1384, -1349, -1044, -1594],
+			x: [2085, 2127, 2158, 2511, 2680, 2767, 2683, 2564, 2269, 2845, 2890, 2977, 3015, 2966, 3301, 3386, 3247, 3217, 3278, 3450, 3146, 2234, 2269, 2698, 1802, 1845, 1954, 1621, 1257, 1296, 850, 640, 675, 609, 259, 226, 70, 296, 2774, 2826, 3242, 2816, 672],
+			y: [-1740, -1765, -1656, -1503, -1557, -1712, -1853, -1677, -1752, -1973, -1942, -1769, -1734, -1560, -1568, -1309, -1182, -1151, -894, -798, -744, -711, -745, -792, -1407, -1367, -1115, -867, -1039, -1067, -1039, -1247, -1212, -1393, -1384, -1349, -1044, -1594, -621, -386, -108, -591, -1823],
 			z: [2],
 			image: "mushroomRed",
 			name: "mushroomRed",
@@ -14981,6 +14994,25 @@ crop: {
 			image: "waterPlant",
 			name: "waterPlant",
 			breathingArea: true,
+		},
+
+		{
+			x: [1773, 3075, 497],
+			y: [-1610, -245, -1603],
+			animation: {
+				type: "spritesheet",
+				frameTime: 150,
+				imagesPerRow: 3,
+				totalImages: 3,
+			},
+			crop: {
+				x: 0,
+				y: 0,
+				width: 196,
+				height: 164
+			},
+			image: "teapotHumidifier",
+			name: "teapotHumidifier",
 		},
 
 		{
